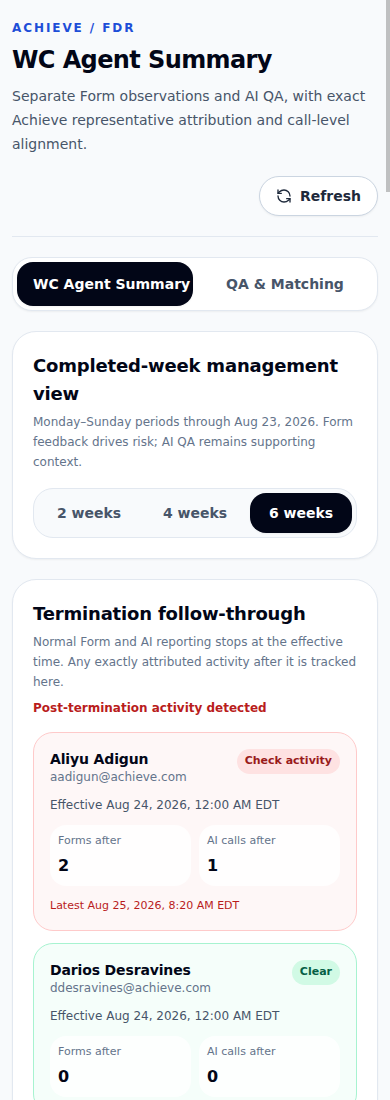
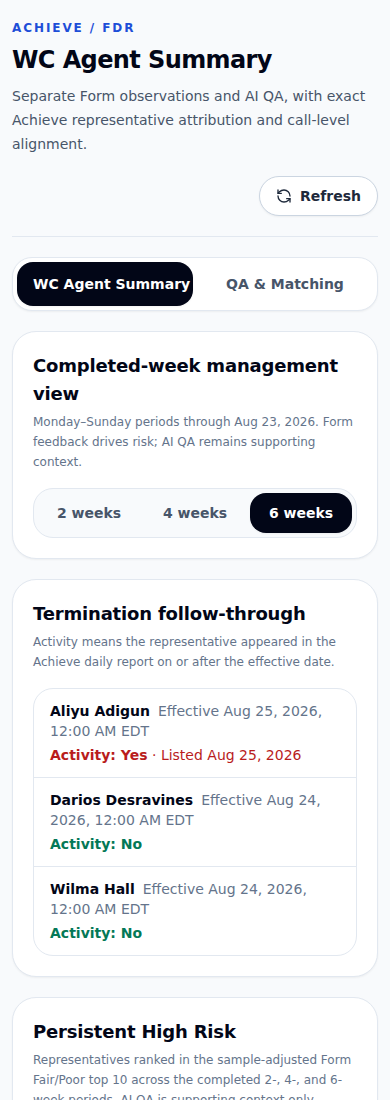
Simplify termination follow-through

diff --git a/supabase/functions/achieve-weekly-report/email.ts b/supabase/functions/achieve-weekly-report/email.ts
@@ -97,39 +97,31 @@ function emailBody(
   const summary = representatives.length === 0
     ? 'No representative ranked in the Form-feedback top 10 across all three completed periods.'
     : `${representatives.length} representative${representatives.length === 1 ? '' : 's'} ranked in the Form-feedback top 10 across all three completed periods.`
-  const terminationActivity = report.terminations.some(
-    termination => termination.postTerminationFormSubmissions + termination.postTerminationAiCalls > 0,
-  )
   const timestamp = (value: string) => new Intl.DateTimeFormat('en-US', {
     timeZone: 'America/New_York', month: 'short', day: 'numeric', year: 'numeric',
     hour: 'numeric', minute: '2-digit', timeZoneName: 'short',
   }).format(new Date(value))
+  const reportDate = (value: string) => new Intl.DateTimeFormat('en-US', {
+    timeZone: 'UTC', month: 'short', day: 'numeric', year: 'numeric',
+  }).format(new Date(value))
   const terminationText = report.terminations.length === 0
     ? 'No effective terminations to monitor.'
     : report.terminations.map(termination => (
-      `${termination.agentName}: effective ${timestamp(termination.terminatedAt)}; `
-      + `${termination.postTerminationFormSubmissions} Forms after; ${termination.postTerminationAiCalls} AI calls after.`
+      `${termination.agentName} — Effective ${timestamp(termination.terminatedAt)} — Activity: ${termination.activity ? 'Yes' : 'No'}`
+      + (termination.latestActivityOn ? ` — Listed ${reportDate(termination.latestActivityOn)}` : '')
     )).join('\n')
-  const terminationCards = report.terminations.map(termination => {
-    const activity = termination.postTerminationFormSubmissions + termination.postTerminationAiCalls
-    const latest = [termination.latestPostTerminationFormAt, termination.latestPostTerminationAiAt]
-      .filter((value): value is string => value !== null)
-      .sort((left, right) => Date.parse(right) - Date.parse(left))[0]
-    const background = activity > 0 ? '#fef2f2' : '#f0fdf4'
-    const border = activity > 0 ? '#fecaca' : '#bbf7d0'
-    const color = activity > 0 ? '#b42318' : '#166534'
-    return `<table role="presentation" width="100%" cellpadding="0" cellspacing="0" style="width:100%;margin:12px 0;border:1px solid ${border};border-collapse:separate;background:${background}"><tr><td style="padding:14px;font-size:13px;line-height:1.5">
-      <strong style="font-size:15px;color:#0f172a">${html(termination.agentName)}</strong><br>
-      <span style="color:#64748b">${html(termination.agentEmail)}</span><br>
-      <span style="color:#64748b">Effective ${html(timestamp(termination.terminatedAt))}</span><br>
-      <strong style="color:${color}">${activity > 0 ? 'Check activity' : 'No post-termination activity'}</strong><br>
-      <span style="color:#334155">Forms after: <strong>${termination.postTerminationFormSubmissions}</strong> &nbsp;·&nbsp; AI calls after: <strong>${termination.postTerminationAiCalls}</strong></span>
-      ${latest ? `<br><span style="color:${color}">Latest ${html(timestamp(latest))}</span>` : ''}
-    </td></tr></table>`
+  const terminationRows = report.terminations.map(termination => {
+    const color = termination.activity ? '#b42318' : '#166534'
+    return `<tr><td style="padding:10px 12px;border-bottom:1px solid #e2e8f0;font-size:13px;line-height:1.5;color:#334155">
+      <strong style="color:#0f172a">${html(termination.agentName)}</strong>
+      <span style="color:#64748b"> — Effective ${html(timestamp(termination.terminatedAt))} — </span>
+      <strong style="color:${color}">Activity: ${termination.activity ? 'Yes' : 'No'}</strong>
+      ${termination.latestActivityOn ? `<span style="color:#64748b"> — Listed ${html(reportDate(termination.latestActivityOn))}</span>` : ''}
+    </td></tr>`
   }).join('')
   const terminationTable = report.terminations.length === 0
     ? '<p style="color:#64748b">No effective terminations to monitor.</p>'
-    : terminationCards
+    : `<table role="presentation" width="100%" cellpadding="0" cellspacing="0" style="width:100%;margin-top:12px;border:1px solid #e2e8f0;border-collapse:collapse">${terminationRows}</table>`
   const names = (values: ReadonlyArray<AchieveManagementRepresentative>) => (
     values.length === 0 ? 'None' : values.map(representative => representative.agentName).join(', ')
   )
@@ -173,8 +165,8 @@ function emailBody(
   )).join('')
   const cards = (rows: string) => rows === '' ? '' : rows
   return {
-    text: `Achieve weekly management report — week ending ${endingLabel}\n\nTermination follow-through${terminationActivity ? ' — ACTIVITY DETECTED' : ''}\n${terminationText}\n\nBottom 5 — last 2 completed weeks: ${names(bottomFiveRepresentatives)}\n\n${summary}\n\nNew since last Monday: ${names(newRepresentatives)}\nRemoved since last Monday: ${names(removedRepresentatives)}\n\nForm feedback drives the risk ranking. AI QA is supporting context only.\n\nOpen the Achieve portal: ${portalUrl}\n\nThe full 2/4/6-week representative export is attached.`,
-    html: `<!doctype html><html><body style="margin:0;background:#f8fafc;font-family:Arial,sans-serif;color:#0f172a"><table role="presentation" width="100%" cellpadding="0" cellspacing="0" bgcolor="#f8fafc" style="width:100%;border-collapse:collapse"><tr><td align="center" style="padding:24px 12px"><table role="presentation" width="680" cellpadding="0" cellspacing="0" bgcolor="#ffffff" style="width:100%;max-width:680px;border:1px solid #e2e8f0;border-collapse:separate"><tr><td style="padding:24px"><p style="margin:0;color:#1d4ed8;font-size:12px;font-weight:700;text-transform:uppercase;letter-spacing:.08em">Achieve / FDR</p><h1 style="margin:8px 0 4px;font-size:24px">WC Agent Summary by representative</h1><p style="margin:0;color:#64748b">Completed 2/4/6-week management report through ${html(endingLabel)}</p><p style="margin:20px 0 0">${html(summary)}</p>${changes}<h2 style="margin:28px 0 4px;font-size:20px">Termination follow-through${terminationActivity ? ' · Activity detected' : ''}</h2><p style="margin:0;color:#64748b;font-size:13px">Normal Form and AI reporting stops at each effective time. Exactly attributed activity after it remains visible here.</p>${terminationTable}<h2 style="margin:28px 0 4px;font-size:20px">Bottom 5 — Last 2 Completed Weeks</h2><p style="margin:0;color:#64748b;font-size:13px">Highest sample-adjusted Form Fair/Poor scores in the completed two-week window. AI QA remains supporting context only.</p>${bottomFiveRows === '' ? '<p style="color:#64748b">No representatives had eligible Form feedback.</p>' : cards(bottomFiveRows)}<h2 style="margin:32px 0 4px;font-size:20px">Persistent High Risk</h2><p style="margin:0;color:#64748b;font-size:13px">Representatives ranked in the Form-feedback top 10 across all completed 2-, 4-, and 6-week periods.</p>${cards(persistentRows)}<p style="color:#475569;font-size:13px">Form feedback drives the risk ranking. AI QA is supporting context only.</p><p style="margin:24px 0 0"><a href="${html(portalUrl)}" style="display:inline-block;background:#0f172a;color:#fff;text-decoration:none;border-radius:999px;padding:11px 18px;font-weight:700">Open Achieve portal</a></p><p style="margin:20px 0 0;color:#64748b;font-size:12px">The full completed 2/4/6-week representative export is attached.</p></td></tr></table></td></tr></table></body></html>`,
+    text: `Achieve weekly management report — week ending ${endingLabel}\n\nBottom 5 — last 2 completed weeks: ${names(bottomFiveRepresentatives)}\n\n${summary}\n\nNew since last Monday: ${names(newRepresentatives)}\nRemoved since last Monday: ${names(removedRepresentatives)}\n\nForm feedback drives the risk ranking. AI QA is supporting context only.\n\nTermination follow-through\n${terminationText}\n\nOpen the Achieve portal: ${portalUrl}\n\nThe full 2/4/6-week representative export is attached.`,
+    html: `<!doctype html><html><body style="margin:0;background:#f8fafc;font-family:Arial,sans-serif;color:#0f172a"><table role="presentation" width="100%" cellpadding="0" cellspacing="0" bgcolor="#f8fafc" style="width:100%;border-collapse:collapse"><tr><td align="center" style="padding:24px 12px"><table role="presentation" width="680" cellpadding="0" cellspacing="0" bgcolor="#ffffff" style="width:100%;max-width:680px;border:1px solid #e2e8f0;border-collapse:separate"><tr><td style="padding:24px"><p style="margin:0;color:#1d4ed8;font-size:12px;font-weight:700;text-transform:uppercase;letter-spacing:.08em">Achieve / FDR</p><h1 style="margin:8px 0 4px;font-size:24px">WC Agent Summary by representative</h1><p style="margin:0;color:#64748b">Completed 2/4/6-week management report through ${html(endingLabel)}</p><p style="margin:20px 0 0">${html(summary)}</p>${changes}<h2 style="margin:28px 0 4px;font-size:20px">Bottom 5 — Last 2 Completed Weeks</h2><p style="margin:0;color:#64748b;font-size:13px">Highest sample-adjusted Form Fair/Poor scores in the completed two-week window. AI QA remains supporting context only.</p>${bottomFiveRows === '' ? '<p style="color:#64748b">No representatives had eligible Form feedback.</p>' : cards(bottomFiveRows)}<h2 style="margin:32px 0 4px;font-size:20px">Persistent High Risk</h2><p style="margin:0;color:#64748b;font-size:13px">Representatives ranked in the Form-feedback top 10 across all completed 2-, 4-, and 6-week periods.</p>${cards(persistentRows)}<p style="color:#475569;font-size:13px">Form feedback drives the risk ranking. AI QA is supporting context only.</p><h2 style="margin:32px 0 4px;font-size:20px">Termination follow-through</h2><p style="margin:0;color:#64748b;font-size:13px">Activity means the representative appeared in the Achieve daily report on or after the effective date.</p>${terminationTable}<p style="margin:24px 0 0"><a href="${html(portalUrl)}" style="display:inline-block;background:#0f172a;color:#fff;text-decoration:none;border-radius:999px;padding:11px 18px;font-weight:700">Open Achieve portal</a></p><p style="margin:20px 0 0;color:#64748b;font-size:12px">The full completed 2/4/6-week representative export is attached.</p></td></tr></table></td></tr></table></body></html>`,
   }
 }
 

diff --git a/src/components/achieve/AchieveManagementOverview.tsx b/src/components/achieve/AchieveManagementOverview.tsx
@@ -25,6 +25,10 @@ const activityTime = new Intl.DateTimeFormat('en-US', {
   timeZoneName: 'short',
 })
 
+const reportDate = new Intl.DateTimeFormat('en-US', {
+  timeZone: 'UTC', month: 'short', day: 'numeric', year: 'numeric',
+})
+
 /** Existing Achieve table layout with persistent risk and completed-week controls. */
 export function AchieveManagementOverview({
   report,
@@ -78,63 +82,26 @@ export function AchieveManagementOverview({
       </section>
 
       <section className="rounded-2xl border border-slate-200 bg-white p-5 shadow-sm sm:p-6">
-        <div className="flex flex-col gap-2 sm:flex-row sm:items-end sm:justify-between">
-          <div>
-            <h2 className="text-lg font-semibold text-slate-950">Termination follow-through</h2>
-            <p className="mt-1 text-xs leading-5 text-slate-500">
-              Normal Form and AI reporting stops at the effective time. Any exactly attributed activity after it is tracked here.
-            </p>
-          </div>
-          <p className={`text-xs font-semibold ${
-            report.terminations.some(termination => termination.postTerminationFormSubmissions + termination.postTerminationAiCalls > 0)
-              ? 'text-red-700'
-              : 'text-emerald-700'
-          }`}>
-            {report.terminations.some(termination => termination.postTerminationFormSubmissions + termination.postTerminationAiCalls > 0)
-              ? 'Post-termination activity detected'
-              : 'No post-termination activity'}
-          </p>
-        </div>
+        <h2 className="text-lg font-semibold text-slate-950">Termination follow-through</h2>
+        <p className="mt-1 text-xs leading-5 text-slate-500">
+          Activity means the representative appeared in the Achieve daily report on or after the effective date.
+        </p>
         {report.terminations.length === 0 ? (
           <p className="mt-4 text-sm text-slate-600">No effective terminations to monitor.</p>
         ) : (
-          <div className="mt-4 grid gap-3 lg:grid-cols-3">
-            {report.terminations.map(termination => {
-              const activityCount = termination.postTerminationFormSubmissions + termination.postTerminationAiCalls
-              const latestActivity = [termination.latestPostTerminationFormAt, termination.latestPostTerminationAiAt]
-                .filter((value): value is string => value !== null)
-                .sort((left, right) => Date.parse(right) - Date.parse(left))[0]
-              return (
-                <article
-                  key={termination.agentEmail}
-                  className={`rounded-xl border p-4 ${activityCount > 0 ? 'border-red-200 bg-red-50/60' : 'border-emerald-200 bg-emerald-50/50'}`}
-                >
-                  <div className="flex items-start justify-between gap-3">
-                    <div className="min-w-0">
-                      <h3 className="[overflow-wrap:anywhere] text-sm font-semibold text-slate-950">{termination.agentName}</h3>
-                      <p className="[overflow-wrap:anywhere] text-xs text-slate-500">{termination.agentEmail}</p>
-                    </div>
-                    <span className={`shrink-0 rounded-full px-2 py-1 text-[11px] font-semibold ${
-                      activityCount > 0 ? 'bg-red-100 text-red-800' : 'bg-emerald-100 text-emerald-800'
-                    }`}>
-                      {activityCount > 0 ? 'Check activity' : 'Clear'}
-                    </span>
-                  </div>
-                  <p className="mt-3 text-xs text-slate-600">Effective {activityTime.format(new Date(termination.terminatedAt))}</p>
-                  <dl className="mt-3 grid grid-cols-2 gap-2">
-                    <div className="rounded-lg bg-white/80 p-2">
-                      <dt className="text-[11px] text-slate-500">Forms after</dt>
-                      <dd className="mt-1 font-semibold tabular-nums text-slate-950">{termination.postTerminationFormSubmissions}</dd>
-                    </div>
-                    <div className="rounded-lg bg-white/80 p-2">
-                      <dt className="text-[11px] text-slate-500">AI calls after</dt>
-                      <dd className="mt-1 font-semibold tabular-nums text-slate-950">{termination.postTerminationAiCalls}</dd>
-                    </div>
-                  </dl>
-                  {latestActivity && <p className="mt-3 text-[11px] font-medium text-red-700">Latest {activityTime.format(new Date(latestActivity))}</p>}
-                </article>
-              )
-            })}
+          <div className="mt-4 divide-y divide-slate-200 rounded-xl border border-slate-200">
+            {report.terminations.map(termination => (
+              <div key={termination.agentEmail} className="flex flex-col gap-1 px-4 py-3 text-sm sm:flex-row sm:items-center sm:justify-between sm:gap-4">
+                <p className="font-semibold text-slate-950">
+                  {termination.agentName}
+                  <span className="ml-2 font-normal text-slate-500">Effective {activityTime.format(new Date(termination.terminatedAt))}</span>
+                </p>
+                <p className={`font-semibold ${termination.activity ? 'text-red-700' : 'text-emerald-700'}`}>
+                  Activity: {termination.activity ? 'Yes' : 'No'}
+                  {termination.latestActivityOn && <span className="font-normal"> · Listed {reportDate.format(new Date(termination.latestActivityOn))}</span>}
+                </p>
+              </div>
+            ))}
           </div>
         )}
       </section>

diff --git a/supabase/functions/_shared/achieve-management-report.ts b/supabase/functions/_shared/achieve-management-report.ts
@@ -25,10 +25,8 @@ export type AchieveManagementTermination = {
   readonly agentName: string
   readonly agentEmail: string
   readonly terminatedAt: string
-  readonly postTerminationFormSubmissions: number
-  readonly latestPostTerminationFormAt: string | null
-  readonly postTerminationAiCalls: number
-  readonly latestPostTerminationAiAt: string | null
+  readonly activity: boolean
+  readonly latestActivityOn: string | null
 }
 
 /** Exactly attributed representative metrics and Form-led risk rank for one period. */
@@ -177,29 +175,20 @@ function parseTermination(value: unknown): AchieveManagementTermination | null {
   const row = record(value)
   if (!row || typeof row.agent_name !== 'string' || typeof row.agent_email !== 'string') return null
   const terminatedAt = optionalTimestamp(row.terminated_at)
-  const formSubmissions = count(row.post_termination_form_submissions)
-  const latestFormAt = optionalTimestamp(row.latest_post_termination_form_at)
-  const aiCalls = count(row.post_termination_ai_calls)
-  const latestAiAt = optionalTimestamp(row.latest_post_termination_ai_at)
+  const latestActivityOn = optionalTimestamp(row.latest_activity_on)
   const agentEmail = row.agent_email.trim().toLowerCase()
   if (
     terminatedAt === null || terminatedAt === undefined
-    || formSubmissions === null || latestFormAt === undefined
-    || aiCalls === null || latestAiAt === undefined
+    || typeof row.activity !== 'boolean' || latestActivityOn === undefined
     || !agentEmail || !agentEmail.includes('@')
-    || (formSubmissions === 0) !== (latestFormAt === null)
-    || (aiCalls === 0) !== (latestAiAt === null)
-    || (latestFormAt !== null && Date.parse(latestFormAt) < Date.parse(terminatedAt))
-    || (latestAiAt !== null && Date.parse(latestAiAt) < Date.parse(terminatedAt))
+    || row.activity !== (latestActivityOn !== null)
   ) return null
   return {
     agentName: row.agent_name.trim() || agentEmail,
     agentEmail,
     terminatedAt,
-    postTerminationFormSubmissions: formSubmissions,
-    latestPostTerminationFormAt: latestFormAt,
-    postTerminationAiCalls: aiCalls,
-    latestPostTerminationAiAt: latestAiAt,
+    activity: row.activity,
+    latestActivityOn,
   }
 }
 
@@ -400,7 +389,7 @@ export function achieveManagementReportCsv(report: AchieveManagementReport): str
   const headers = [
     'Period', 'Period start (UTC)', 'Period end (UTC)', 'Persistent high risk',
     'Bottom 5 last 2 weeks', 'Risk rank', 'Terminated at (UTC)',
-    'Post-termination Forms', 'Post-termination AI calls',
+    'Activity after termination', 'Latest activity report date',
     'Representative', 'Email', 'Adjusted Form risk', 'Form sample', 'Form good', 'Form fair',
     'Form poor', 'Form other', 'Form Fair/Poor rate', 'Background noise', 'Accent / communication',
     'Connection issue', 'AI QA sample', 'AI QA pass', 'AI QA flagged', 'Overlap', 'Both clear',
@@ -416,8 +405,8 @@ export function achieveManagementReportCsv(report: AchieveManagementReport): str
       bottomFiveTwoWeek.has(representative.agentEmail) ? 'Yes' : 'No',
       representative.riskRank ?? '',
       representative.terminatedAt ?? '',
-      termination?.postTerminationFormSubmissions ?? 0,
-      termination?.postTerminationAiCalls ?? 0,
+      termination?.activity ? 'Yes' : 'No',
+      termination?.latestActivityOn ?? '',
       representative.agentName,
       representative.agentEmail,
       representative.adjustedFormRisk === null ? '' : `${representative.adjustedFormRisk.toFixed(1)}%`,

diff --git a/src/lib/achieve-management.ts b/src/lib/achieve-management.ts
@@ -12,10 +12,8 @@ export type AchieveManagementTermination = {
   readonly agentName: string
   readonly agentEmail: string
   readonly terminatedAt: string
-  readonly postTerminationFormSubmissions: number
-  readonly latestPostTerminationFormAt: string | null
-  readonly postTerminationAiCalls: number
-  readonly latestPostTerminationAiAt: string | null
+  readonly activity: boolean
+  readonly latestActivityOn: string | null
 }
 
 /** Form-led risk metadata for one representative and period. */
@@ -82,11 +80,6 @@ function nullableRank(value: unknown): number | null {
   return value
 }
 
-function count(value: unknown): number {
-  if (typeof value !== 'number' || !Number.isSafeInteger(value) || value < 0) invalidResponse()
-  return value
-}
-
 function nullableTimestamp(value: unknown): string | null {
   if (value === null) return null
   return timestamp(value)
@@ -96,26 +89,19 @@ function parseTermination(value: unknown): AchieveManagementTermination {
   const row = record(value)
   if (!row || typeof row.agentName !== 'string' || typeof row.agentEmail !== 'string') invalidResponse()
   const agentEmail = row.agentEmail.trim().toLowerCase()
-  const postTerminationFormSubmissions = count(row.postTerminationFormSubmissions)
-  const latestPostTerminationFormAt = nullableTimestamp(row.latestPostTerminationFormAt)
-  const postTerminationAiCalls = count(row.postTerminationAiCalls)
-  const latestPostTerminationAiAt = nullableTimestamp(row.latestPostTerminationAiAt)
+  const latestActivityOn = nullableTimestamp(row.latestActivityOn)
   const terminatedAt = timestamp(row.terminatedAt)
   if (
     !agentEmail.includes('@')
-    || (postTerminationFormSubmissions === 0) !== (latestPostTerminationFormAt === null)
-    || (postTerminationAiCalls === 0) !== (latestPostTerminationAiAt === null)
-    || (latestPostTerminationFormAt !== null && Date.parse(latestPostTerminationFormAt) < Date.parse(terminatedAt))
-    || (latestPostTerminationAiAt !== null && Date.parse(latestPostTerminationAiAt) < Date.parse(terminatedAt))
+    || typeof row.activity !== 'boolean'
+    || row.activity !== (latestActivityOn !== null)
   ) invalidResponse()
   return {
     agentName: row.agentName.trim() || agentEmail,
     agentEmail,
     terminatedAt,
-    postTerminationFormSubmissions,
-    latestPostTerminationFormAt,
-    postTerminationAiCalls,
-    latestPostTerminationAiAt,
+    activity: row.activity,
+    latestActivityOn,
   }
 }
 

diff --git a/supabase/functions/_shared/achieve-management-report.check.ts b/supabase/functions/_shared/achieve-management-report.check.ts
@@ -76,10 +76,8 @@ const loaded = await loadAchieveManagementReport(
       agent_name: 'Representative 3',
       agent_email: 'rep-3@example.test',
       terminated_at: '2026-08-18T04:00:00Z',
-      post_termination_form_submissions: 1,
-      latest_post_termination_form_at: '2026-08-19T10:00:00Z',
-      post_termination_ai_calls: 0,
-      latest_post_termination_ai_at: null,
+      activity: true,
+      latest_activity_on: '2026-08-19',
     }],
     error: null,
   }),
@@ -100,7 +98,7 @@ assert.deepStrictEqual(loaded.report.persistentAgentEmails, [
 const firstPeriod = loaded.report.periods[0]
 assert.strictEqual(firstPeriod?.representatives.find(row => row.agentEmail === 'ai-only@example.test')?.riskRank, null)
 assert.strictEqual(firstPeriod?.representatives.find(row => row.agentEmail === 'rep-3@example.test')?.terminatedAt, '2026-08-18T04:00:00Z')
-assert.strictEqual(loaded.report.terminations[0]?.postTerminationFormSubmissions, 1)
+assert.strictEqual(loaded.report.terminations[0]?.activity, true)
 const oneOfOne = firstPeriod?.representatives.find(row => row.agentEmail === 'rep-10@example.test')
 const oneOfTwo = firstPeriod?.representatives.find(row => row.agentEmail === 'rep-9@example.test')
 assert.ok((oneOfOne?.adjustedFormRisk ?? 0) > (oneOfTwo?.adjustedFormRisk ?? 0))
@@ -109,7 +107,7 @@ assert.strictEqual(achieveReportWeekEnding(loaded.report), '2026-08-16')
 const csv = achieveManagementReportCsv(loaded.report)
 assert.ok(csv.startsWith('\uFEFF"Period","Period start (UTC)"'))
 assert.ok(csv.includes('"Bottom 5 last 2 weeks"'))
-assert.ok(csv.includes('"Post-termination Forms"'))
+assert.ok(csv.includes('"Activity after termination"'))
 assert.ok(csv.includes('"2026-08-18T04:00:00Z"'))
 assert.ok(csv.includes('"\'=Representative 0"'))
 assert.strictEqual(csv.trim().split('\r\n').length, 1 + 12 * 3)

diff --git a/supabase/functions/achieve-weekly-report/email.check.ts b/supabase/functions/achieve-weekly-report/email.check.ts
@@ -45,10 +45,8 @@ const report: AchieveManagementReport = {
     agentName: representative.agentName,
     agentEmail: representative.agentEmail,
     terminatedAt: representative.terminatedAt,
-    postTerminationFormSubmissions: 2,
-    latestPostTerminationFormAt: '2026-08-17T12:00:00Z',
-    postTerminationAiCalls: 1,
-    latestPostTerminationAiAt: '2026-08-17T11:00:00Z',
+    activity: true,
+    latestActivityOn: '2026-08-17',
   }],
   periods: ([2, 4, 6] as const).map(weeks => ({
     weeks,
@@ -110,9 +108,14 @@ assert.ok(decodedHtml.includes('role="presentation"'))
 assert.ok(!decodedHtml.includes('min-width:1420px'))
 assert.ok(!decodedHtml.includes('overflow-x:auto'))
 assert.ok(new TextEncoder().encode(decodedHtml).length < 102_400)
-assert.ok(decodedHtml.includes('Termination follow-through · Activity detected'))
-assert.ok(decodedHtml.includes('Forms after'))
-assert.ok(decodedHtml.includes('AI calls after'))
+assert.ok(decodedHtml.includes('Termination follow-through'))
+assert.ok(decodedHtml.indexOf('Termination follow-through') > decodedHtml.indexOf('Persistent High Risk'))
+const terminationSection = decodedHtml.slice(decodedHtml.indexOf('Termination follow-through'))
+assert.ok(terminationSection.includes('Activity: Yes'))
+assert.ok(terminationSection.includes('Listed Aug 17, 2026'))
+assert.ok(!terminationSection.includes('rep-one@example.test'))
+assert.ok(!decodedHtml.includes('Forms after'))
+assert.ok(!decodedHtml.includes('AI calls after'))
 assert.ok(decodedHtml.includes('Terminated · Aug 16, 2026'))
 assert.ok(decodedHtml.includes('Bottom 5 — Last 2 Completed Weeks'))
 assert.ok(decodedHtml.includes('Bottom 5 · 2w #1 · Also persistent'))

diff --git a/supabase/migrations/achieve-agent-termination-tracking.check.js b/supabase/migrations/achieve-agent-termination-tracking.check.js
@@ -10,14 +10,14 @@ for (const required of [
   'alter table public.achieve_agent_terminations enable row level security',
   'alter table public.achieve_agent_terminations force row level security',
   'revoke all on table public.achieve_agent_terminations from public, anon, authenticated',
-  "('aadigun@achieve.com', 'Aliyu Adigun', '2026-08-24 04:00:00+00')",
+  "('aadigun@achieve.com', 'Aliyu Adigun', '2026-08-25 04:00:00+00')",
   "('ddesravines@achieve.com', 'Darios Desravines', '2026-08-24 04:00:00+00')",
   "('whall@achieve.com', 'Wilma Hall', '2026-08-24 04:00:00+00')",
   'or attributed.submitted_at < termination.terminated_at',
   'or attributed.graded_at < termination.terminated_at',
   'create function public.list_achieve_agent_termination_monitoring',
-  'post_termination_form_submissions',
-  'post_termination_ai_calls',
+  "log.last_seen_on >= (termination.terminated_at at time zone 'America/New_York')::date",
+  'report_activity.latest_activity_on is not null as activity',
   'revoke execute on function public.list_achieve_agent_termination_monitoring(timestamptz)',
 ]) {
   assert.ok(sql.includes(required), `missing termination invariant: ${required}`)

diff --git a/src/lib/achieve-management.check.ts b/src/lib/achieve-management.check.ts
@@ -58,10 +58,8 @@ const raw = {
     agentName: 'Representative A',
     agentEmail: 'rep-a@example.test',
     terminatedAt: '2026-08-16T04:00:00Z',
-    postTerminationFormSubmissions: 1,
-    latestPostTerminationFormAt: '2026-08-17T01:00:00Z',
-    postTerminationAiCalls: 0,
-    latestPostTerminationAiAt: null,
+    activity: true,
+    latestActivityOn: '2026-08-17',
   }],
 }
 
@@ -70,7 +68,7 @@ assert.strictEqual(achieveManagementPeriod(parsed, 4).weeks, 4)
 assert.deepStrictEqual(persistentAchieveRepresentatives(parsed, 6).map(row => row.agentEmail), ['rep-a@example.test'])
 assert.deepStrictEqual(persistentAchieveRanks(parsed).get('rep-a@example.test'), { 2: 1, 4: 1, 6: 1 })
 assert.strictEqual(achieveManagementPeriod(parsed, 2).dashboard.representatives[0]?.terminatedAt, '2026-08-16T04:00:00Z')
-assert.strictEqual(parsed.terminations[0]?.postTerminationFormSubmissions, 1)
+assert.strictEqual(parsed.terminations[0]?.activity, true)
 assert.throws(
   () => parseAchieveManagementReport({ ...raw, persistentAgentEmails: ['missing@example.test'] }),
   /invalid_achieve_management_response/,
